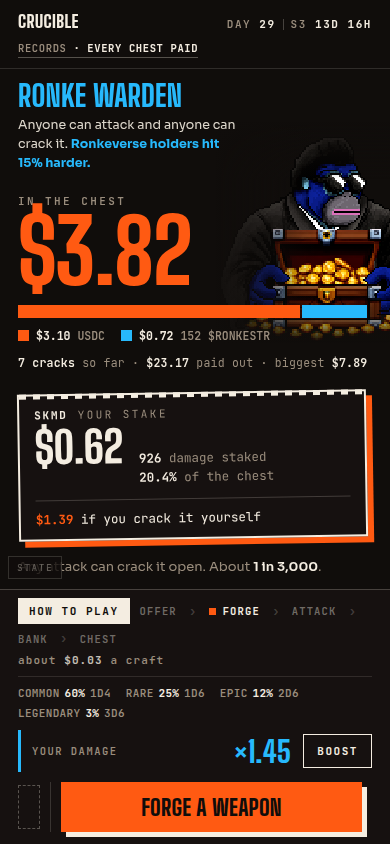
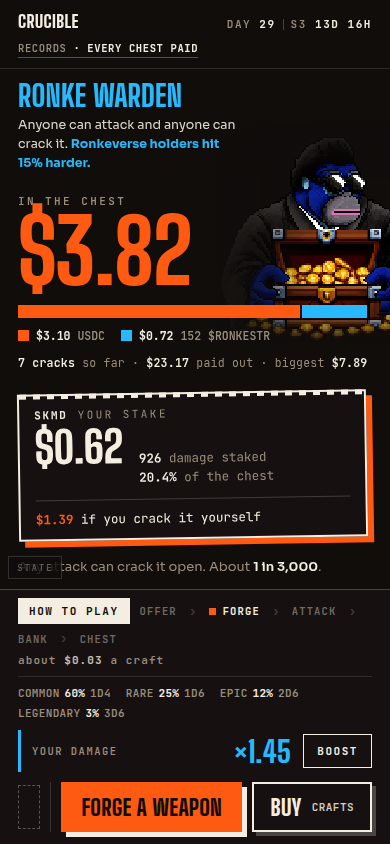
arena: buy-crafts drawer

Changed region(s): [[0.2154, 0.9242, 0.9846, 1.0]]

diff --git a/mockups/arena/arena-d-synthesis.html b/mockups/arena/arena-d-synthesis.html
@@ -326,6 +326,7 @@ button{font:inherit;color:inherit;background:none;border:0;cursor:pointer}
 .btn-ghost:hover{background:rgba(244,237,225,.09)}
 .btn-ghost:active{transform:translate(3px,3px);box-shadow:2px 2px 0 rgba(244,237,225,.24)}
 .btn small{font-family:var(--mono);font-size:13px;font-weight:600;letter-spacing:.04em;opacity:.85}
+.btn.is-off{opacity:.45;cursor:not-allowed;box-shadow:none}
 
 /* every multiplier collapsed into one object: a label, a number, a button.
    Same mono system as the rest of the rail. */
@@ -384,6 +385,63 @@ button{font:inherit;color:inherit;background:none;border:0;cursor:pointer}
 .power-lede b{color:var(--warden);font-family:var(--disp);font-weight:800;font-size:24px;letter-spacing:0}
 .power-actions{display:grid;grid-template-columns:1fr auto;gap:12px;margin-top:18px}
 .power-actions .btn{font-size:24px;height:54px;padding:0 22px}
+
+/* ---- buy crafts ---- */
+.qty{display:flex;align-items:center;gap:16px;margin-top:16px}
+.qty-k{
+  font-family:var(--mono);font-size:12px;font-weight:600;letter-spacing:.2em;
+  text-transform:uppercase;color:var(--muted);
+}
+.qty-presets{display:flex;gap:8px;margin-left:auto}
+.qty-presets button{
+  font-family:var(--mono);font-size:13px;font-weight:700;letter-spacing:.06em;
+  color:var(--muted);border:1px solid rgba(244,237,225,.24);padding:7px 14px;
+  transition:background .12s ease,color .12s ease,border-color .12s ease;
+}
+.qty-presets button:hover{border-color:var(--bone);color:var(--bone)}
+.qty-presets button.on{background:var(--bone);color:var(--ink);border-color:var(--bone)}
+
+.buy-price{display:flex;align-items:baseline;gap:16px;margin-top:18px}
+.buy-usd{
+  font-family:var(--disp);font-weight:800;font-size:60px;line-height:.86;
+  color:var(--ember);font-variant-numeric:tabular-nums;
+}
+.buy-for{font-family:var(--mono);font-size:12.5px;line-height:1.55;color:var(--muted)}
+.buy-for b{color:var(--bone);font-weight:700}
+.buy-legs{
+  margin-top:10px;font-family:var(--mono);font-size:12px;color:var(--muted);line-height:1.6;
+}
+.buy-legs b{color:rgba(244,237,225,.85);font-weight:700}
+
+.steps-k{
+  margin-top:20px;padding-top:13px;border-top:3px solid var(--bone);
+  font-family:var(--mono);font-size:11.5px;font-weight:700;letter-spacing:.2em;
+  text-transform:uppercase;color:var(--muted);
+}
+/* approvals are the real friction in this flow, up to three transactions before
+   the one that buys anything. Showing them as a checklist that is mostly
+   already ticked is honest and much calmer than surfacing them one at a time
+   as surprise wallet prompts. */
+.appr{list-style:none;margin-top:10px}
+.appr li{
+  display:flex;align-items:center;gap:12px;padding:9px 0;
+  border-bottom:1px solid rgba(244,237,225,.1);
+  font-family:var(--mono);font-size:13px;font-weight:600;
+}
+.appr .mk{
+  width:18px;height:18px;flex:none;display:flex;align-items:center;justify-content:center;
+  font-size:12px;border:1px solid rgba(244,237,225,.3);
+}
+.appr li.done .mk{background:var(--ember);border-color:var(--ember);color:var(--ink);font-weight:700}
+.appr li.done .nm{color:var(--muted)}
+.appr li.todo .nm{color:var(--bone)}
+.appr .nm{flex:1}
+.appr .st{
+  font-size:11px;letter-spacing:.14em;text-transform:uppercase;color:var(--muted);
+}
+.appr li.todo .st{color:var(--ember)}
+.buy-x{margin-top:9px}
+.buy-x a{color:var(--bone);text-decoration:underline;text-underline-offset:3px}
 
 body[data-state="forge"] .only-weapon{display:none}
 body[data-state="weapon"] .only-forge{display:none}
@@ -680,6 +738,52 @@ body[data-state="weapon"] .only-forge{display:none}
   </div>
 </div>
 
+<!-- Buying crafts. A drawer off the forge control, not a place: leaving the
+     arena to top up would break the loop this whole redesign exists to protect.
+     Quantities and token amounts are the live on-chain quote (legs v22). -->
+<div class="sheet" id="buySheet" hidden>
+  <div class="sheet-scrim" data-close></div>
+  <div class="sheet-panel" role="dialog" aria-modal="true" aria-labelledby="buy-title">
+    <div class="sheet-head">
+      <h2 id="buy-title">Buy crafts</h2>
+      <button class="sheet-x" data-close aria-label="Close">&times;</button>
+    </div>
+
+    <div class="qty">
+      <span class="qty-k">How many</span>
+      <div class="qty-presets" id="qtyPresets">
+        <button data-n="1">1</button>
+        <button data-n="5">5</button>
+        <button class="on" data-n="10">10</button>
+        <button data-n="25">25</button>
+      </div>
+    </div>
+
+    <div class="buy-price">
+      <span class="buy-usd" id="buyUsd">~$0.30</span>
+      <span class="buy-for"><b id="buyN">10</b> crafts<br>about <b id="buySwings">87</b> attacks</span>
+    </div>
+    <p class="buy-legs" id="buyLegs"></p>
+
+    <div class="steps-k">One-time approvals</div>
+    <ul class="appr" id="appr">
+      <li class="done"><span class="mk">&check;</span><span class="nm">$BURN</span><span class="st">Approved</span></li>
+      <li class="done"><span class="mk">&check;</span><span class="nm">rORE</span><span class="st">Approved</span></li>
+      <li class="todo"><span class="mk"></span><span class="nm">$RONKESTR</span><span class="st">Needs approval</span></li>
+    </ul>
+
+    <button class="btn btn-primary sheet-go" id="buyGo">Approve $RONKESTR</button>
+    <p class="sheet-fine" id="buyFine">
+      Step 1 of 2. Approving is a one-off per token, then buying is a single tap forever.
+      Costs float a little: each leg is re-pegged to about a cent every hour.
+    </p>
+    <p class="sheet-fine buy-x">
+      $RONKESTR trades only on <a href="#">Ronin Strategy</a>, which takes 10%.
+      Mining your own rORE instead of buying it saves about 18% a craft. <a href="#">How</a>
+    </p>
+  </div>
+</div>
+
 <div id="shake">
   <header class="topbar wrap">
     <span class="mark">Crucible</span>
@@ -785,13 +889,16 @@ body[data-state="weapon"] .only-forge{display:none}
         <img class="only-weapon" src="assets/weapon-rare.png" alt="Rare sword" width="29" height="58">
         <span class="slot only-forge"></span>
         <dl class="only-weapon"><dt>Rare</dt><dd>1d6</dd></dl>
-        <dl class="only-forge"><dt>No weapon</dt><dd>2 crafts paid</dd></dl>
+        <dl class="only-forge"><dt>No weapon</dt><dd id="craftsPaid">2 crafts paid</dd></dl>
       </div>
 
       <button class="btn btn-primary only-weapon" id="push">Attack <small id="pushPct">&middot; 30%</small></button>
       <button class="btn btn-ghost only-weapon" id="bank">Bank <small id="bankAmt">24</small></button>
 
+      <!-- forge state keeps the same two-button rhythm as attack/bank: the thing
+           you do, and the thing that tops you up -->
       <button class="btn btn-primary only-forge" id="forge">Forge a weapon</button>
+      <button class="btn btn-ghost only-forge" id="buyBtn">Buy <small>crafts</small></button>
 
       <!-- one object for every multiplier, replacing the offering panel. The
            number is the whole point; the panel behind it is where you act. -->
@@ -877,6 +984,17 @@ body[data-state="weapon"] .only-forge{display:none}
      Gated on boosts the player can act on TODAY, not on the theoretical max.
      Real implementation reads sessionStorage; a mock uses a variable so the
      reviewer can see it more than once by reloading. */
+  /* crafts you have already paid for. At zero the forge cannot fire and buying
+     becomes the primary action, because that is the only thing left to do. */
+  var paidCrafts = 2;
+  function renderForge(){
+    var none = paidCrafts === 0;
+    $('craftsPaid').textContent = none ? 'no crafts' : (paidCrafts + ' craft' + (paidCrafts === 1 ? '' : 's') + ' paid');
+    $('forge').disabled = none;
+    $('forge').className = 'btn only-forge ' + (none ? 'btn-ghost is-off' : 'btn-primary');
+    $('buyBtn').className = 'btn only-forge ' + (none ? 'btn-primary' : 'btn-ghost');
+  }
+
   var powerShown = false;
   var actionableGain = 0.25;                 // one offering left (+15%) and RON (+10%)
   function maybeWarnPower(){
@@ -893,6 +1011,55 @@ body[data-state="weapon"] .only-forge{display:none}
     $('powerSheet').hidden = true;
     $('boostSheet').hidden = false;
   });
+
+  /* ---- buy crafts ----
+     Per-craft leg costs are the LIVE on-chain quote from CrucibleForgeV2
+     (legs v22): quote(1) = 26.142272 BURN + 1.728455 rORE + 6.9 RONKESTR.
+     Everything below scales from that, so any quantity stays truthful. */
+  var LEGS = [
+    { sym:'$BURN',      per:26.142272, dp:2 },
+    { sym:'rORE',       per:1.728455,  dp:2 },
+    { sym:'$RONKESTR',  per:6.9,       dp:1 }
+  ];
+  var USD_PER_CRAFT = 0.03;
+  var SWINGS_PER_CRAFT = 8.7;            // measured: players push well past the safe floor
+  var buyN = 10, approved = false;
+
+  function renderBuy(){
+    $('buyN').textContent = buyN;
+    $('buyUsd').textContent = '~$' + (buyN * USD_PER_CRAFT).toFixed(2);
+    $('buySwings').textContent = Math.round(buyN * SWINGS_PER_CRAFT);
+    $('buyLegs').innerHTML = LEGS.map(function(l){
+      return '<b>' + (l.per * buyN).toFixed(l.dp) + '</b> ' + l.sym;
+    }).join(' &nbsp;·&nbsp; ');
+    $('buyGo').textContent = approved ? ('Buy ' + buyN + ' crafts') : 'Approve $RONKESTR';
+    $('appr').lastElementChild.className = approved ? 'done' : 'todo';
+    $('appr').lastElementChild.querySelector('.mk').innerHTML = approved ? '&check;' : '';
+    $('appr').lastElementChild.querySelector('.st').textContent = approved ? 'Approved' : 'Needs approval';
+    $('buyFine').textContent = approved
+      ? 'Step 2 of 2. One transaction, and the crafts land in the forge within seconds.'
+      : 'Step 1 of 2. Approving is a one-off per token, then buying is a single tap forever.';
+  }
+
+  $('qtyPresets').addEventListener('click', function(e){
+    var b = e.target.closest('button'); if (!b) return;
+    buyN = +b.dataset.n;
+    Array.prototype.forEach.call(this.children, function(c){
+      c.className = (+c.dataset.n === buyN) ? 'on' : '';
+    });
+    renderBuy();
+  });
+
+  $('buyGo').addEventListener('click', function(){
+    if (!approved){ approved = true; renderBuy(); return; }
+    paidCrafts += buyN;
+    $('buySheet').hidden = true;
+    renderForge();
+  });
+  $('buySheet').addEventListener('click', function(e){
+    if (e.target.closest('[data-close]')) $('buySheet').hidden = true;
+  });
+  renderBuy();
 
   function renderRisk(){
     var pct = Math.round(st.shatter*100);
@@ -976,10 +1143,17 @@ body[data-state="weapon"] .only-forge{display:none}
   });
 
   $('forge').addEventListener('click', function(){
+    if (paidCrafts === 0){ $('buySheet').hidden = false; return; }
     if (maybeWarnPower()) return;
+    paidCrafts -= 1;
     document.body.dataset.state = 'weapon';
     st.swing = 0; st.banked = 0; st.risk = 0; st.shatter = 0;
-    render(); measure();
+    render(); renderForge(); measure();
+  });
+
+  $('buyBtn').addEventListener('click', function(){
+    $('buySheet').hidden = false;
+    $('buySheet').querySelector('.sheet-x').focus();
   });
 
   var rail = $('rail');
@@ -997,7 +1171,7 @@ body[data-state="weapon"] .only-forge{display:none}
     render(); measure();
   });
 
-  render(); measure();
+  render(); renderForge(); measure();
 })();
 </script>
 </body>

diff --git a/mockups/arena/PLAN.md b/mockups/arena/PLAN.md
@@ -388,3 +388,37 @@ copy plus an Offer button) to one.
    omitted the third offering. It is **×1.73** (`1 + .15 NFT + .45 offerings + .03 Atia +
    .10 RON`).
 
+### D revision 6 — buying crafts (2026-07-30)
+
+This closes §4, the last structural hole. Every direction showed how to *forge* and none
+showed how to *pay*, which is the only money-in step in the game.
+
+**Built as a drawer off the forge control, not a place.** Leaving the arena to top up
+would break the loop the redesign exists to protect. The forge state now carries the same
+two-button rhythm as the attack state: `Forge a weapon` and `Buy`. At zero crafts the
+forge greys out and Buy becomes the primary, because it is the only thing left to do.
+
+**Numbers are the live on-chain quote, not invented.** Read from `CrucibleForgeV2.quote()`
+at legs **v22**: one craft is `26.142272 $BURN + 1.728455 rORE + 6.9 $RONKESTR`. The panel
+scales from the per-craft figures so any quantity stays truthful, and leads with the USD
+figure (`~$0.30` for ten) with the token legs underneath, since dollars are the only unit
+every persona in the red team could read.
+
+**Approvals are shown honestly, up front, as a checklist.** This is the real friction and
+the mockups had been hiding it: `useCrucibleForge` needs an ERC-20 approval **per leg**
+before the forge tx, so a first-time buyer faces up to **four transactions** to spend three
+cents. Surfacing them one at a time as surprise wallet prompts is how that becomes a
+bounce. Shown as a list that is mostly already ticked, with `Step 1 of 2` and the
+explicit promise that approving is a one-off per token, it reads as setup rather than as an
+ambush. The no-wallet persona bounced precisely here ("three currencies I have never heard
+of, to make one three-cent purchase"), and this is the cheapest available answer.
+
+Also folded in, as one quiet line rather than the two arena panels they replace: the
+$RONKESTR liquidity note (Ronin Strategy, 10% fee) and the rORE mine-vs-buy nudge
+(~18% a craft).
+
+**Not modelled, and worth deciding before build:** what happens when a player holds none of
+the three tokens at all. Today that is an off-site errand across two venues, and no amount
+of drawer design fixes it. A single-token or RON-denominated purchase path would, and that
+is an economy question rather than a layout one.
+
